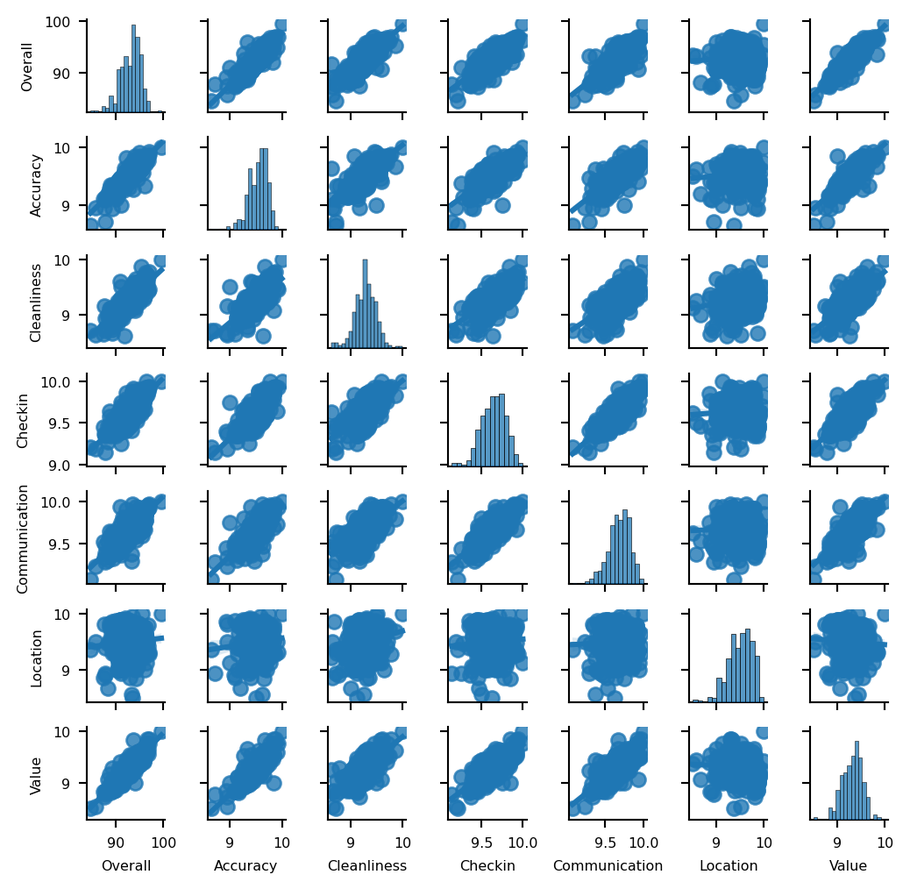
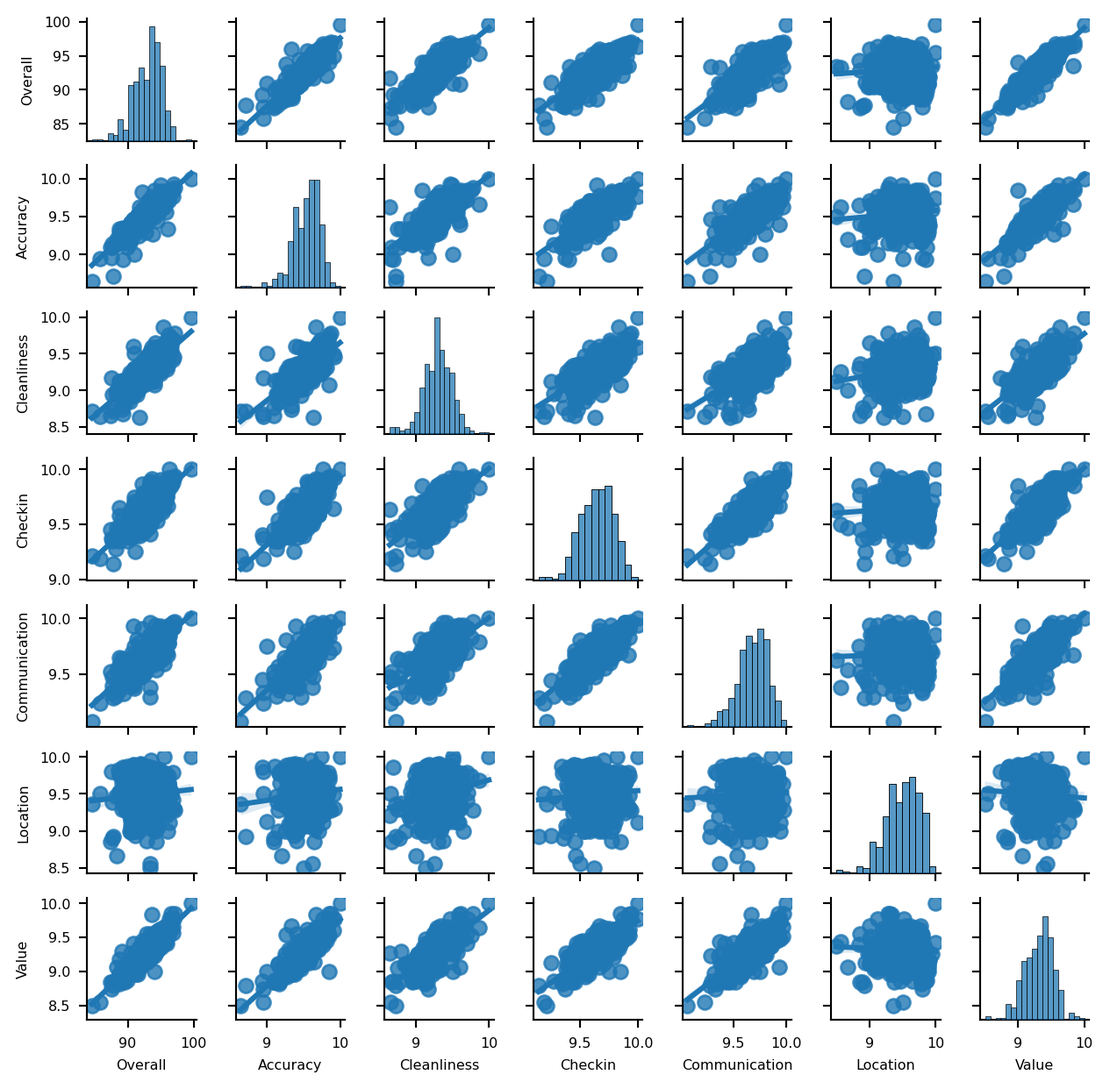
clustering-R-Py-DIY

diff --git a/docs/clusteringPy.html b/docs/clusteringPy.html
@@ -104,8 +104,8 @@ pre > code.sourceCode > span > a:first-child::before { text-decoration: underlin
 <meta name="twitter:description" content="">
 <meta name="twitter:image" content="https://pietrostefani.github.io/wma/clusteringPy_files/figure-html/cell-7-output-1.png">
 <meta name="twitter:creator" content="@EPietrostefani">
-<meta name="twitter:image-height" content="1697">
-<meta name="twitter:image-width" content="1823">
+<meta name="twitter:image-height" content="1023">
+<meta name="twitter:image-width" content="1080">
 <meta name="twitter:card" content="summary_large_image">
 </head>
 
@@ -502,6 +502,9 @@ pre > code.sourceCode > span > a:first-child::before { text-decoration: underlin
   </ul></li>
   <li><a href="#regionalisation-algorithms" id="toc-regionalisation-algorithms" class="nav-link" data-scroll-target="#regionalisation-algorithms">Regionalisation algorithms</a>
   <ul class="collapse">
+  <li><a href="#defining-space-formally" id="toc-defining-space-formally" class="nav-link" data-scroll-target="#defining-space-formally">Defining space formally</a></li>
+  <li><a href="#creating-regions-from-areas" id="toc-creating-regions-from-areas" class="nav-link" data-scroll-target="#creating-regions-from-areas">Creating regions from areas</a></li>
+  <li><a href="#mapping-the-resulting-regions" id="toc-mapping-the-resulting-regions" class="nav-link" data-scroll-target="#mapping-the-resulting-regions">Mapping the resulting regions</a></li>
   <li><a href="#comparing-organic-and-administrative-delineations" id="toc-comparing-organic-and-administrative-delineations" class="nav-link" data-scroll-target="#comparing-organic-and-administrative-delineations">Comparing organic and administrative delineations</a></li>
   </ul></li>
   </ul>
@@ -616,7 +619,7 @@ memory usage: 49.8+ KB</code></pre>
 <p>Since we have many variables to plot, we will create a loop that generates each map for us and places it on a “subplot” of the main figure. Given that before we saved the names of the variables of interest as a vector called <code>ratings</code>, we can now make use of this to write a simpler for-loop:</p>
 <div class="cell" data-execution_count="6">
 <div class="sourceCode cell-code" id="cb7"><pre class="sourceCode python code-with-copy"><code class="sourceCode python"><span id="cb7-1"><a href="#cb7-1" aria-hidden="true" tabindex="-1"></a><span class="co"># Create figure and axes (this time it's 9, arranged 3 by 3)</span></span>
-<span id="cb7-2"><a href="#cb7-2" aria-hidden="true" tabindex="-1"></a>f, axs <span class="op">=</span> plt.subplots(nrows<span class="op">=</span><span class="dv">3</span>, ncols<span class="op">=</span><span class="dv">3</span>, figsize<span class="op">=</span>(<span class="dv">12</span>, <span class="dv">12</span>))</span>
+<span id="cb7-2"><a href="#cb7-2" aria-hidden="true" tabindex="-1"></a>f, axs <span class="op">=</span> plt.subplots(nrows<span class="op">=</span><span class="dv">3</span>, ncols<span class="op">=</span><span class="dv">3</span>, figsize<span class="op">=</span>(<span class="dv">7</span>, <span class="dv">7</span>))</span>
 <span id="cb7-3"><a href="#cb7-3" aria-hidden="true" tabindex="-1"></a><span class="co"># Make the axes accessible with single indexing</span></span>
 <span id="cb7-4"><a href="#cb7-4" aria-hidden="true" tabindex="-1"></a>axs <span class="op">=</span> axs.flatten()</span>
 <span id="cb7-5"><a href="#cb7-5" aria-hidden="true" tabindex="-1"></a><span class="co"># Start the loop over all the variables of interest</span></span>
@@ -640,11 +643,12 @@ memory usage: 49.8+ KB</code></pre>
 <span id="cb7-23"><a href="#cb7-23" aria-hidden="true" tabindex="-1"></a><span class="co"># Turn off axes for any remaining empty subplots (in this case, the last two)</span></span>
 <span id="cb7-24"><a href="#cb7-24" aria-hidden="true" tabindex="-1"></a><span class="cf">for</span> j <span class="kw">in</span> <span class="bu">range</span>(i<span class="op">+</span><span class="dv">1</span>, <span class="bu">len</span>(axs)):</span>
 <span id="cb7-25"><a href="#cb7-25" aria-hidden="true" tabindex="-1"></a>    axs[j].set_visible(<span class="va">False</span>)</span>
-<span id="cb7-26"><a href="#cb7-26" aria-hidden="true" tabindex="-1"></a>    </span>
-<span id="cb7-27"><a href="#cb7-27" aria-hidden="true" tabindex="-1"></a><span class="co"># Display the figure</span></span>
-<span id="cb7-28"><a href="#cb7-28" aria-hidden="true" tabindex="-1"></a>plt.show()</span></code><button title="Copy to Clipboard" class="code-copy-button"><i class="bi"></i></button></pre></div>
+<span id="cb7-26"><a href="#cb7-26" aria-hidden="true" tabindex="-1"></a></span>
+<span id="cb7-27"><a href="#cb7-27" aria-hidden="true" tabindex="-1"></a></span>
+<span id="cb7-28"><a href="#cb7-28" aria-hidden="true" tabindex="-1"></a><span class="co"># Display the figure</span></span>
+<span id="cb7-29"><a href="#cb7-29" aria-hidden="true" tabindex="-1"></a>plt.show()</span></code><button title="Copy to Clipboard" class="code-copy-button"><i class="bi"></i></button></pre></div>
 <div class="cell-output cell-output-display">
-<p><img src="clusteringPy_files/figure-html/cell-7-output-1.png" width="912" height="849"></p>
+<p><img src="clusteringPy_files/figure-html/cell-7-output-1.png" width="540" height="512"></p>
 </div>
 </div>
 <p>Before we delve into the substantive interpretation of the map, let us walk through the process of creating the figure above, which involves several subplots inside the same figure:</p>
@@ -660,7 +664,7 @@ memory usage: 49.8+ KB</code></pre>
 <p>As we can see, there is substantial variation in how the ratings for different aspects are distributed over space. While variables like the overall rating or the communication with the host tend to higher in peripheral areas, others like the location score are more concentrated in the city centre.</p>
 <p>Even though we only have seven variables, it is very hard to “mentally overlay” all of them to come up with an overall assessment of the nature of each part of London. For bivariate correlations, a useful tool is the correlation matrix plot, available in <code>seaborn</code>:</p>
 <div class="cell" data-execution_count="7">
-<div class="sourceCode cell-code" id="cb8"><pre class="sourceCode python code-with-copy"><code class="sourceCode python"><span id="cb8-1"><a href="#cb8-1" aria-hidden="true" tabindex="-1"></a>pairplot <span class="op">=</span> sns.pairplot(abb[ratings], kind<span class="op">=</span><span class="st">'reg'</span>, diag_kind<span class="op">=</span><span class="st">'hist'</span>, height<span class="op">=</span><span class="fl">0.8</span>)</span>
+<div class="sourceCode cell-code" id="cb8"><pre class="sourceCode python code-with-copy"><code class="sourceCode python"><span id="cb8-1"><a href="#cb8-1" aria-hidden="true" tabindex="-1"></a>pairplot <span class="op">=</span> sns.pairplot(abb[ratings], kind<span class="op">=</span><span class="st">'reg'</span>, diag_kind<span class="op">=</span><span class="st">'hist'</span>, height<span class="op">=</span><span class="dv">1</span>)</span>
 <span id="cb8-2"><a href="#cb8-2" aria-hidden="true" tabindex="-1"></a></span>
 <span id="cb8-3"><a href="#cb8-3" aria-hidden="true" tabindex="-1"></a><span class="co"># Iterate over each subplot in the pairplot to customize axis labels and ticks</span></span>
 <span id="cb8-4"><a href="#cb8-4" aria-hidden="true" tabindex="-1"></a><span class="cf">for</span> i <span class="kw">in</span> <span class="bu">range</span>(<span class="bu">len</span>(ratings_names)):  <span class="co"># Loop over each row of subplots</span></span>
@@ -682,7 +686,7 @@ The figure layout has changed to tight
 </code></pre>
 </div>
 <div class="cell-output cell-output-display">
-<p><img src="clusteringPy_files/figure-html/cell-8-output-2.png" width="519" height="507"></p>
+<p><img src="clusteringPy_files/figure-html/cell-8-output-2.png" width="633" height="621"></p>
 </div>
 </div>
 <p>The above plot is helpful to consider uni and bivariate questions such as: what is the relationship between the overall rating and location scores? (Positive) Are the overall ratings more correlated with location or with cleanliness? (Cleanliness). However, sometimes, this is not enough and we are interested in more sophisticated questions that are truly multivariate and, in these cases, the figure above cannot help us. For example, it is not straightforward to answer questions like: what are the main characteristics of the South of London? What areas are similar to the core of the city? Are the East and West of London similar in terms of the kind of AirBnb properties you can find in them? For these kinds of multi-dimensional questions -involving multiple variables at the same time- we require a truly multidimensional method like statistical clustering.</p>
@@ -703,7 +707,7 @@ The figure layout has changed to tight
 <p>The k5cls object we have just created contains several components that can be useful for an analysis. For now, we will use the clusters, which represent the different categories in which we have grouped the data. Labels for the clusters can be extracted as follows:</p>
 <div class="cell" data-execution_count="10">
 <div class="sourceCode cell-code" id="cb12"><pre class="sourceCode python code-with-copy"><code class="sourceCode python"><span id="cb12-1"><a href="#cb12-1" aria-hidden="true" tabindex="-1"></a>k5cls.labels_</span></code><button title="Copy to Clipboard" class="code-copy-button"><i class="bi"></i></button></pre></div>
-<div class="cell-output cell-output-display" data-execution_count="10">
+<div class="cell-output cell-output-display" data-execution_count="88">
 <pre><code>array([2, 3, 3, 3, 1, 1, 3, 2, 2, 1, 1, 2, 2, 2, 1, 2, 3, 1, 1, 2, 2, 2,
        4, 4, 4, 4, 4, 2, 2, 4, 2, 2, 2, 3, 3, 3, 1, 1, 3, 1, 2, 1, 1, 1,
        0, 1, 1, 3, 0, 0, 1, 4, 2, 1, 1, 1, 1, 0, 0, 0, 2, 0, 3, 3, 2, 3,
@@ -755,7 +759,7 @@ The figure layout has changed to tight
 <div class="cell" data-execution_count="13">
 <div class="sourceCode cell-code" id="cb16"><pre class="sourceCode python code-with-copy"><code class="sourceCode python"><span id="cb16-1"><a href="#cb16-1" aria-hidden="true" tabindex="-1"></a>k5sizes <span class="op">=</span> abb.groupby(<span class="st">'k5cls'</span>).size()</span>
 <span id="cb16-2"><a href="#cb16-2" aria-hidden="true" tabindex="-1"></a>k5sizes</span></code><button title="Copy to Clipboard" class="code-copy-button"><i class="bi"></i></button></pre></div>
-<div class="cell-output cell-output-display" data-execution_count="13">
+<div class="cell-output cell-output-display" data-execution_count="91">
 <pre><code>k5cls
 0     28
 1    103
@@ -786,7 +790,7 @@ dtype: int64</code></pre>
 <span id="cb19-2"><a href="#cb19-2" aria-hidden="true" tabindex="-1"></a>k5means <span class="op">=</span> abb.groupby(<span class="st">'k5cls'</span>)[ratings].mean()</span>
 <span id="cb19-3"><a href="#cb19-3" aria-hidden="true" tabindex="-1"></a><span class="co"># Show the table transposed (so it's not too wide)</span></span>
 <span id="cb19-4"><a href="#cb19-4" aria-hidden="true" tabindex="-1"></a>k5means.T</span></code><button title="Copy to Clipboard" class="code-copy-button"><i class="bi"></i></button></pre></div>
-<div class="cell-output cell-output-display" data-execution_count="15">
+<div class="cell-output cell-output-display" data-execution_count="93">
 <div>
 
 
@@ -872,27 +876,30 @@ dtype: int64</code></pre>
 <p>Regionalisation is the subset of clustering techniques that impose a spatial constraint on the classification. In other words, the result of a regionalisation algorithm contains areas that are spatially contiguous. Effectively, what this means is that these techniques aggregate areas into a smaller set of larger ones, called regions. In this context then, areas are nested within regions. Real world examples of this phenomenon includes counties within states or, in the UK, local super output areas (LSOAs) into middle super output areas (MSOAs). The difference between those examples and the output of a regionalisation algorithm is that while the former are aggregated based on administrative principles, the latter follows a statistical technique that, very much the same as in the standard statistical clustering, groups together areas that are similar on the basis of a set of attributes. Only that now, such statistical clustering is spatially constrained.</p>
 <p>As in the non-spatial case, there are many different algorithms to perform regionalisation, and they all differ on details relating to the way they measure (dis)similarity, the process to regionalise, etc. However, same as above too, they all share a few common aspects. In particular, they all take a set of input variables or attributes and a representation of space in the form of a binary spatial weights matrix. Depending on the algorithm, they also require the desired number of output regions into which the areas are aggregated.</p>
 <p>To illustrate these concepts, we will run a regionalisation algorithm on the AirBnb data we have been using. In this case, the goal will be to re-delineate the boundary lines of the Inner London boroughs following a rationale based on the different average ratings on AirBnb properties, instead of the administrative reasons behind the existing boundary lines. In this way, the resulting regions will represent a consistent set of areas that are similar with each other in terms of the ratings received.</p>
-<p>###Defining space formally</p>
+<section id="defining-space-formally" class="level3">
+<h3 class="anchored" data-anchor-id="defining-space-formally">Defining space formally</h3>
 <p>Very much in the same way as with ESDA techniques, regionalization methods require a formal representation of space that is statistics-friendly. In practice, this means that we will need to create a spatial weights matrix for the areas to be aggregated.</p>
 <p>Technically speaking, this is the same process as we have seen before, thanks to PySAL. The difference in this case is that we did not begin with a shapefile, but with a GeoJSON. Fortunately, PySAL supports the construction of spatial weights matrices “on-the-fly”, that is from a table. This is a one-liner:</p>
 <div class="cell" data-execution_count="16">
 <div class="sourceCode cell-code" id="cb20"><pre class="sourceCode python code-with-copy"><code class="sourceCode python"><span id="cb20-1"><a href="#cb20-1" aria-hidden="true" tabindex="-1"></a>w <span class="op">=</span> weights.Queen.from_dataframe(abb)</span></code><button title="Copy to Clipboard" class="code-copy-button"><i class="bi"></i></button></pre></div>
 <div class="cell-output cell-output-stderr">
-<pre><code>/var/folders/_n/krcxvsq92k7bdd1nfpk3_9c00000gn/T/ipykernel_56795/2521922249.py:1: FutureWarning:
+<pre><code>/var/folders/_n/krcxvsq92k7bdd1nfpk3_9c00000gn/T/ipykernel_62411/2521922249.py:1: FutureWarning:
 
 `use_index` defaults to False but will default to True in future. Set True/False directly to control this behavior and silence this warning
 </code></pre>
 </div>
 </div>
-<p>###Creating regions from areas</p>
+</section>
+<section id="creating-regions-from-areas" class="level3">
+<h3 class="anchored" data-anchor-id="creating-regions-from-areas">Creating regions from areas</h3>
 <p>At this point, we have all the pieces needed to run a regionalization algorithm. For this example, we will use a spatially-constrained version of the agglomerative algorithm. This is a similar approach to that used above (the inner-workings of the algorithm are different however) with the difference that, in this case, observations can only be labelled in the same group if they are spatial neighbors, as defined by our spatial weights matrix <code>w</code>. The way to interact with the algorithm is very similar to that above. We first set the parameters:</p>
 <div class="cell" data-execution_count="17">
 <div class="sourceCode cell-code" id="cb22"><pre class="sourceCode python code-with-copy"><code class="sourceCode python"><span id="cb22-1"><a href="#cb22-1" aria-hidden="true" tabindex="-1"></a>sagg <span class="op">=</span> cluster.AgglomerativeClustering(n_clusters<span class="op">=</span><span class="dv">12</span>, connectivity<span class="op">=</span>w.sparse)</span>
 <span id="cb22-2"><a href="#cb22-2" aria-hidden="true" tabindex="-1"></a>sagg</span></code><button title="Copy to Clipboard" class="code-copy-button"><i class="bi"></i></button></pre></div>
-<div class="cell-output cell-output-display" data-execution_count="17">
-<style>#sk-container-id-1 {color: black;}#sk-container-id-1 pre{padding: 0;}#sk-container-id-1 div.sk-toggleable {background-color: white;}#sk-container-id-1 label.sk-toggleable__label {cursor: pointer;display: block;width: 100%;margin-bottom: 0;padding: 0.3em;box-sizing: border-box;text-align: center;}#sk-container-id-1 label.sk-toggleable__label-arrow:before {content: "▸";float: left;margin-right: 0.25em;color: #696969;}#sk-container-id-1 label.sk-toggleable__label-arrow:hover:before {color: black;}#sk-container-id-1 div.sk-estimator:hover label.sk-toggleable__label-arrow:before {color: black;}#sk-container-id-1 div.sk-toggleable__content {max-height: 0;max-width: 0;overflow: hidden;text-align: left;background-color: #f0f8ff;}#sk-container-id-1 div.sk-toggleable__content pre {margin: 0.2em;color: black;border-radius: 0.25em;background-color: #f0f8ff;}#sk-container-id-1 input.sk-toggleable__control:checked~div.sk-toggleable__content {max-height: 200px;max-width: 100%;overflow: auto;}#sk-container-id-1 input.sk-toggleable__control:checked~label.sk-toggleable__label-arrow:before {content: "▾";}#sk-container-id-1 div.sk-estimator input.sk-toggleable__control:checked~label.sk-toggleable__label {background-color: #d4ebff;}#sk-container-id-1 div.sk-label input.sk-toggleable__control:checked~label.sk-toggleable__label {background-color: #d4ebff;}#sk-container-id-1 input.sk-hidden--visually {border: 0;clip: rect(1px 1px 1px 1px);clip: rect(1px, 1px, 1px, 1px);height: 1px;margin: -1px;overflow: hidden;padding: 0;position: absolute;width: 1px;}#sk-container-id-1 div.sk-estimator {font-family: monospace;background-color: #f0f8ff;border: 1px dotted black;border-radius: 0.25em;box-sizing: border-box;margin-bottom: 0.5em;}#sk-container-id-1 div.sk-estimator:hover {background-color: #d4ebff;}#sk-container-id-1 div.sk-parallel-item::after {content: "";width: 100%;border-bottom: 1px solid gray;flex-grow: 1;}#sk-container-id-1 div.sk-label:hover label.sk-toggleable__label {background-color: #d4ebff;}#sk-container-id-1 div.sk-serial::before {content: "";position: absolute;border-left: 1px solid gray;box-sizing: border-box;top: 0;bottom: 0;left: 50%;z-index: 0;}#sk-container-id-1 div.sk-serial {display: flex;flex-direction: column;align-items: center;background-color: white;padding-right: 0.2em;padding-left: 0.2em;position: relative;}#sk-container-id-1 div.sk-item {position: relative;z-index: 1;}#sk-container-id-1 div.sk-parallel {display: flex;align-items: stretch;justify-content: center;background-color: white;position: relative;}#sk-container-id-1 div.sk-item::before, #sk-container-id-1 div.sk-parallel-item::before {content: "";position: absolute;border-left: 1px solid gray;box-sizing: border-box;top: 0;bottom: 0;left: 50%;z-index: -1;}#sk-container-id-1 div.sk-parallel-item {display: flex;flex-direction: column;z-index: 1;position: relative;background-color: white;}#sk-container-id-1 div.sk-parallel-item:first-child::after {align-self: flex-end;width: 50%;}#sk-container-id-1 div.sk-parallel-item:last-child::after {align-self: flex-start;width: 50%;}#sk-container-id-1 div.sk-parallel-item:only-child::after {width: 0;}#sk-container-id-1 div.sk-dashed-wrapped {border: 1px dashed gray;margin: 0 0.4em 0.5em 0.4em;box-sizing: border-box;padding-bottom: 0.4em;background-color: white;}#sk-container-id-1 div.sk-label label {font-family: monospace;font-weight: bold;display: inline-block;line-height: 1.2em;}#sk-container-id-1 div.sk-label-container {text-align: center;}#sk-container-id-1 div.sk-container {/* jupyter's `normalize.less` sets `[hidden] { display: none; }` but bootstrap.min.css set `[hidden] { display: none !important; }` so we also need the `!important` here to be able to override the default hidden behavior on the sphinx rendered scikit-learn.org. See: https://github.com/scikit-learn/scikit-learn/issues/21755 */display: inline-block !important;position: relative;}#sk-container-id-1 div.sk-text-repr-fallback {display: none;}</style><div id="sk-container-id-1" class="sk-top-container"><div class="sk-text-repr-fallback"><pre>AgglomerativeClustering(connectivity=&lt;353x353 sparse matrix of type '&lt;class 'numpy.float64'&gt;'
+<div class="cell-output cell-output-display" data-execution_count="95">
+<style>#sk-container-id-4 {color: black;}#sk-container-id-4 pre{padding: 0;}#sk-container-id-4 div.sk-toggleable {background-color: white;}#sk-container-id-4 label.sk-toggleable__label {cursor: pointer;display: block;width: 100%;margin-bottom: 0;padding: 0.3em;box-sizing: border-box;text-align: center;}#sk-container-id-4 label.sk-toggleable__label-arrow:before {content: "▸";float: left;margin-right: 0.25em;color: #696969;}#sk-container-id-4 label.sk-toggleable__label-arrow:hover:before {color: black;}#sk-container-id-4 div.sk-estimator:hover label.sk-toggleable__label-arrow:before {color: black;}#sk-container-id-4 div.sk-toggleable__content {max-height: 0;max-width: 0;overflow: hidden;text-align: left;background-color: #f0f8ff;}#sk-container-id-4 div.sk-toggleable__content pre {margin: 0.2em;color: black;border-radius: 0.25em;background-color: #f0f8ff;}#sk-container-id-4 input.sk-toggleable__control:checked~div.sk-toggleable__content {max-height: 200px;max-width: 100%;overflow: auto;}#sk-container-id-4 input.sk-toggleable__control:checked~label.sk-toggleable__label-arrow:before {content: "▾";}#sk-container-id-4 div.sk-estimator input.sk-toggleable__control:checked~label.sk-toggleable__label {background-color: #d4ebff;}#sk-container-id-4 div.sk-label input.sk-toggleable__control:checked~label.sk-toggleable__label {background-color: #d4ebff;}#sk-container-id-4 input.sk-hidden--visually {border: 0;clip: rect(1px 1px 1px 1px);clip: rect(1px, 1px, 1px, 1px);height: 1px;margin: -1px;overflow: hidden;padding: 0;position: absolute;width: 1px;}#sk-container-id-4 div.sk-estimator {font-family: monospace;background-color: #f0f8ff;border: 1px dotted black;border-radius: 0.25em;box-sizing: border-box;margin-bottom: 0.5em;}#sk-container-id-4 div.sk-estimator:hover {background-color: #d4ebff;}#sk-container-id-4 div.sk-parallel-item::after {content: "";width: 100%;border-bottom: 1px solid gray;flex-grow: 1;}#sk-container-id-4 div.sk-label:hover label.sk-toggleable__label {background-color: #d4ebff;}#sk-container-id-4 div.sk-serial::before {content: "";position: absolute;border-left: 1px solid gray;box-sizing: border-box;top: 0;bottom: 0;left: 50%;z-index: 0;}#sk-container-id-4 div.sk-serial {display: flex;flex-direction: column;align-items: center;background-color: white;padding-right: 0.2em;padding-left: 0.2em;position: relative;}#sk-container-id-4 div.sk-item {position: relative;z-index: 1;}#sk-container-id-4 div.sk-parallel {display: flex;align-items: stretch;justify-content: center;background-color: white;position: relative;}#sk-container-id-4 div.sk-item::before, #sk-container-id-4 div.sk-parallel-item::before {content: "";position: absolute;border-left: 1px solid gray;box-sizing: border-box;top: 0;bottom: 0;left: 50%;z-index: -1;}#sk-container-id-4 div.sk-parallel-item {display: flex;flex-direction: column;z-index: 1;position: relative;background-color: white;}#sk-container-id-4 div.sk-parallel-item:first-child::after {align-self: flex-end;width: 50%;}#sk-container-id-4 div.sk-parallel-item:last-child::after {align-self: flex-start;width: 50%;}#sk-container-id-4 div.sk-parallel-item:only-child::after {width: 0;}#sk-container-id-4 div.sk-dashed-wrapped {border: 1px dashed gray;margin: 0 0.4em 0.5em 0.4em;box-sizing: border-box;padding-bottom: 0.4em;background-color: white;}#sk-container-id-4 div.sk-label label {font-family: monospace;font-weight: bold;display: inline-block;line-height: 1.2em;}#sk-container-id-4 div.sk-label-container {text-align: center;}#sk-container-id-4 div.sk-container {/* jupyter's `normalize.less` sets `[hidden] { display: none; }` but bootstrap.min.css set `[hidden] { display: none !important; }` so we also need the `!important` here to be able to override the default hidden behavior on the sphinx rendered scikit-learn.org. See: https://github.com/scikit-learn/scikit-learn/issues/21755 */display: inline-block !important;position: relative;}#sk-container-id-4 div.sk-text-repr-fallback {display: none;}</style><div id="sk-container-id-4" class="sk-top-container"><div class="sk-text-repr-fallback"><pre>AgglomerativeClustering(connectivity=&lt;353x353 sparse matrix of type '&lt;class 'numpy.float64'&gt;'
     with 1978 stored elements in Compressed Sparse Row format&gt;,
-                        n_clusters=12)</pre><b>In a Jupyter environment, please rerun this cell to show the HTML representation or trust the notebook. <br>On GitHub, the HTML representation is unable to render, please try loading this page with nbviewer.org.</b></div><div class="sk-container" hidden=""><div class="sk-item"><div class="sk-estimator sk-toggleable"><input class="sk-toggleable__control sk-hidden--visually" id="sk-estimator-id-1" type="checkbox" checked=""><label for="sk-estimator-id-1" class="sk-toggleable__label sk-toggleable__label-arrow">AgglomerativeClustering</label><div class="sk-toggleable__content"><pre>AgglomerativeClustering(connectivity=&lt;353x353 sparse matrix of type '&lt;class 'numpy.float64'&gt;'
+                        n_clusters=12)</pre><b>In a Jupyter environment, please rerun this cell to show the HTML representation or trust the notebook. <br>On GitHub, the HTML representation is unable to render, please try loading this page with nbviewer.org.</b></div><div class="sk-container" hidden=""><div class="sk-item"><div class="sk-estimator sk-toggleable"><input class="sk-toggleable__control sk-hidden--visually" id="sk-estimator-id-4" type="checkbox" checked=""><label for="sk-estimator-id-4" class="sk-toggleable__label sk-toggleable__label-arrow">AgglomerativeClustering</label><div class="sk-toggleable__content"><pre>AgglomerativeClustering(connectivity=&lt;353x353 sparse matrix of type '&lt;class 'numpy.float64'&gt;'
     with 1978 stored elements in Compressed Sparse Row format&gt;,
                         n_clusters=12)</pre></div></div></div></div></div>
 </div>
@@ -906,7 +913,9 @@ dtype: int64</code></pre>
 <div class="cell" data-execution_count="19">
 <div class="sourceCode cell-code" id="cb24"><pre class="sourceCode python code-with-copy"><code class="sourceCode python"><span id="cb24-1"><a href="#cb24-1" aria-hidden="true" tabindex="-1"></a>abb[<span class="st">'saggcls'</span>] <span class="op">=</span> saggcls.labels_</span></code><button title="Copy to Clipboard" class="code-copy-button"><i class="bi"></i></button></pre></div>
 </div>
-<p>###Mapping the resulting regions</p>
+</section>
+<section id="mapping-the-resulting-regions" class="level3">
+<h3 class="anchored" data-anchor-id="mapping-the-resulting-regions">Mapping the resulting regions</h3>
 <p>At this point, the column <code>sagg13cls</code> is no different than <code>k5cls</code>: a categorical variable that can be mapped into a unique values choropleth. In fact the following code snippett is exactly the same as before, only replacing the name of the variable to be mapped and the title:</p>
 <div class="cell" data-execution_count="20">
 <div class="sourceCode cell-code" id="cb25"><pre class="sourceCode python code-with-copy"><code class="sourceCode python"><span id="cb25-1"><a href="#cb25-1" aria-hidden="true" tabindex="-1"></a><span class="co"># Setup figure and ax</span></span>
@@ -925,6 +934,7 @@ dtype: int64</code></pre>
 <p><img src="clusteringPy_files/figure-html/cell-21-output-1.png" width="689" height="507"></p>
 </div>
 </div>
+</section>
 <section id="comparing-organic-and-administrative-delineations" class="level3">
 <h3 class="anchored" data-anchor-id="comparing-organic-and-administrative-delineations">Comparing organic and administrative delineations</h3>
 <p>The map above gives a very clear impression of the boundary delineation of the algorithm. However, it is still based on the small area polygons. To create the new boroughs “properly”, we need to dissolve all the polygons in each category into a single one. This is a standard GIS operation that is supported by <code>geopandas</code> and that can be easily actioned with the same <code>groupby</code> operator we used before. The only additional complication is that we need to wrap it into a separate function to be able to pass it on to <code>groupby</code>. We first the define the function <code>dissolve</code>:</p>
@@ -976,7 +986,7 @@ dtype: int64</code></pre>
 <p>Remember we read these at the beginning of the notebook:</p>
 <div class="cell" data-execution_count="24">
 <div class="sourceCode cell-code" id="cb29"><pre class="sourceCode python code-with-copy"><code class="sourceCode python"><span id="cb29-1"><a href="#cb29-1" aria-hidden="true" tabindex="-1"></a>boroughs.head()</span></code><button title="Copy to Clipboard" class="code-copy-button"><i class="bi"></i></button></pre></div>
-<div class="cell-output cell-output-display" data-execution_count="24">
+<div class="cell-output cell-output-display" data-execution_count="102">
 <div>
 
 
